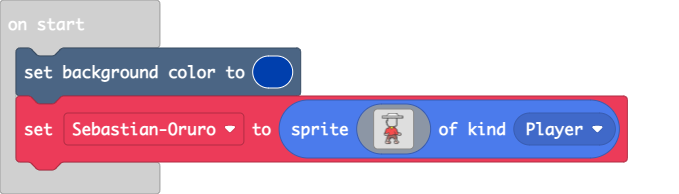
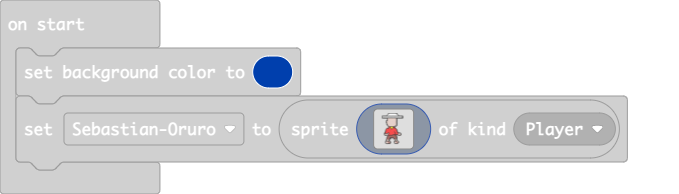
Update main.blocks, main.ts

diff --git a/main.ts b/main.ts
@@ -9,20 +9,20 @@ let SebastianOruro = sprites.create(img`
     ....f1111111111111111111111111111111111f......
     ....f1111111111111111111111111111111111f......
     ....ffffffffffffffffffffffffffffffffffff......
-    .............f...............f................
-    .............f...............f................
-    .............f...............f................
-    .............f...............f................
-    ...........fff...............f................
-    ...........f.................f................
-    ...........f.................f................
-    ...........ff................f................
-    ............f................f................
-    ............f................f................
-    ............ff...............f................
-    .............f...............f................
-    .............f...............f................
-    ..............ff..........fff.................
+    .............fdddddddddddddddf................
+    .............fdddddddddddddddf................
+    .............fdddddddddddddddf................
+    .............fdddddddddddddddf................
+    ...........fffdddddddddddddddf................
+    ...........fdddddddddddddddddf................
+    ...........fdddddddddddddddddf................
+    ...........ffddddddddddddddddf................
+    ............fddddddddddddddddf................
+    ............fddddddddddddddddf................
+    ............ffdddddddddddddddf................
+    .............fdddddddddddddddf................
+    .............fdddddddddddddddf................
+    ..............ffddddddddddfff.................
     ................ffffffffff....................
     ...............f22f5555f2f....................
     ...............f22f5555f2ff...................
